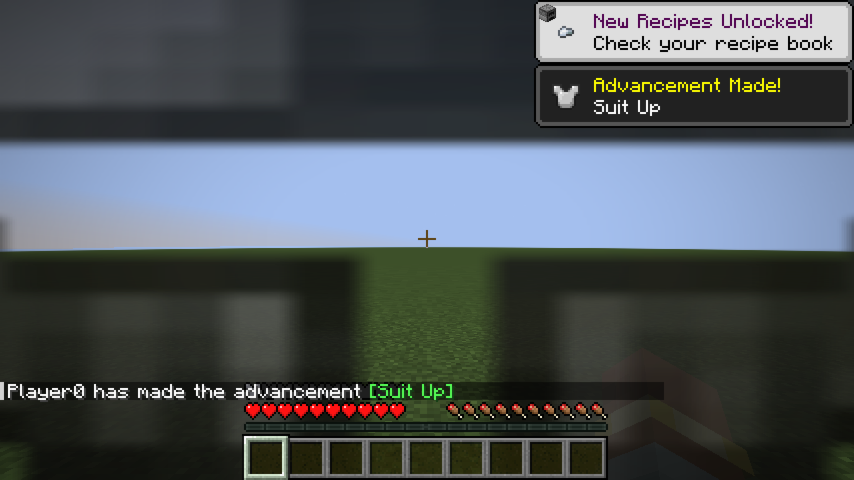
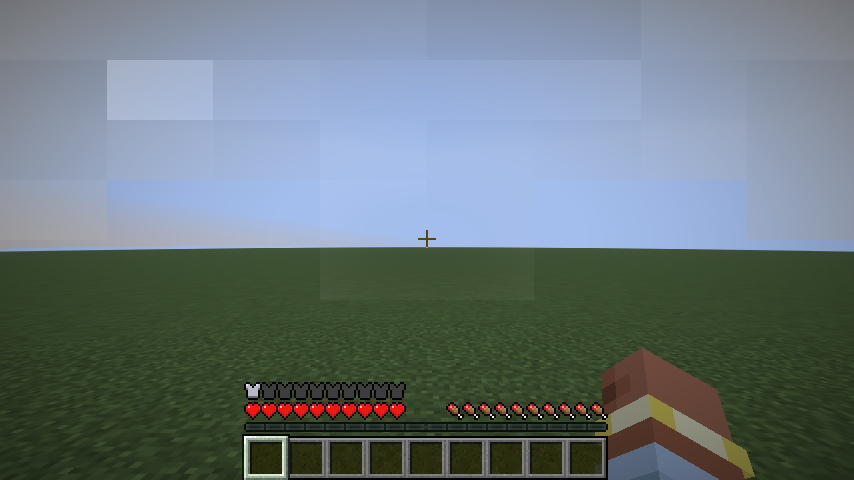
✨ Génère les overlays depuis les textures vanilla + tests pour chaque casque
- Ajoute scripts/generate_overlay.py : extrait la face avant (8×8) de la texture
  d'armure, upscale NEAREST ×64 et applique une vignette radiale (centre
  transparent → bords opaques, alpha max 217)
- Ajoute scripts/regen_all_overlays.sh : extrait automatiquement les textures
  du JAR Minecraft installé et régénère les 6 overlays
- Remplace les overlays génériques (gris #262524 uniforme) par des overlays
  fidèles aux couleurs vanilla (fer gris, diamant cyan, or doré…)
- Étend HelmetOverlayClientGameTest pour tester les 6 types de casque dans
  un seul monde (iron, diamond, golden, netherite, chainmail, leather)
- Désactive announceAdvancements et sendCommandFeedback, vide le chat et les
  toasts avant chaque screenshot pour des templates propres
- Ajoute la propriété testModResourcesPath dans build.gradle pour créer les
  templates manquants automatiquement
- Ajoute les 6 templates de référence GameTest (854×480)

diff --git a/scripts/generate_overlay.py b/scripts/generate_overlay.py
@@ -1,0 +1,166 @@
+#!/usr/bin/env python3
+"""
+Génère des textures overlay de casque à partir de textures d'armure Minecraft.
+
+La face avant du casque dans une texture d'armure (64x32 pour une résolution 16x16)
+se trouve à x=8, y=8 sur une surface de 8x8. Le script calcule automatiquement
+le multiplicateur pour les résolutions supérieures (32x32, 64x64, …).
+
+Usage:
+  python3 scripts/generate_overlay.py <armor_texture.png> [armor_overlay.png] [options]
+
+Exemples:
+  python3 scripts/generate_overlay.py iron_layer_1.png -o iron_helmet_overlay.png
+  python3 scripts/generate_overlay.py leather_layer_1.png leather_layer_2.png -o leather_helmet_overlay.png
+  python3 scripts/generate_overlay.py diamond_layer_1.png --size 1024 -o diamond_helmet_overlay.png
+
+Dépendances:
+  pip install pillow numpy
+"""
+
+import sys
+import argparse
+from typing import Optional
+import numpy as np
+from PIL import Image, ImageFilter
+from pathlib import Path
+
+# ── Dimensions de référence de la texture d'armure Minecraft (résolution 16) ──
+BASE_ARMOR_WIDTH  = 64
+BASE_ARMOR_HEIGHT = 32
+FACE_OFFSET_X = 8   # Position en x de la face avant dans la texture
+FACE_OFFSET_Y = 8   # Position en y de la face avant dans la texture
+FACE_SIZE     = 8   # Taille de la face (carré 8×8 en résolution 16)
+
+# ── Paramètres d'overlay (calqués sur l'analyse des overlays existants du mod) ──
+DEFAULT_OUTPUT_SIZE = 512
+MAX_ALPHA        = 217   # ~85 % d'opacité max — identique aux overlays existants
+BLUR_RADIUS_PCT  = 0.0   # 0 = pas de flou, pixels nets (mettre ex. 0.004 pour adoucir légèrement)
+VIGNETTE_POWER   = 1.8   # Exposant du dégradé radial (plus élevé = bords plus marqués)
+
+
+def _load_face(path: str, face_x: int, face_y: int, face_size: int) -> Image.Image:
+    img = Image.open(path).convert("RGBA")
+    return img.crop((face_x, face_y, face_x + face_size, face_y + face_size))
+
+
+def generate_overlay(
+    armor_path: str,
+    armor_overlay_path: Optional[str] = None,
+    output_path: str = "overlay.png",
+    output_size: int = DEFAULT_OUTPUT_SIZE,
+) -> None:
+    armor = Image.open(armor_path).convert("RGBA")
+    w, h = armor.size
+
+    # Calcul du multiplicateur de résolution
+    if w % BASE_ARMOR_WIDTH != 0:
+        print(
+            f"Erreur : la largeur {w} n'est pas un multiple de {BASE_ARMOR_WIDTH}.",
+            file=sys.stderr,
+        )
+        sys.exit(1)
+
+    mult = w // BASE_ARMOR_WIDTH
+    expected_h = BASE_ARMOR_HEIGHT * mult
+
+    if h != expected_h:
+        print(
+            f"Avertissement : hauteur {h} inattendue (attendu {expected_h} "
+            f"pour un multiplicateur ×{mult}). Poursuite quand même.",
+            file=sys.stderr,
+        )
+
+    face_x    = FACE_OFFSET_X * mult
+    face_y    = FACE_OFFSET_Y * mult
+    face_size = FACE_SIZE * mult
+
+    print(
+        f"Résolution détectée : ×{mult} — "
+        f"face avant à ({face_x}, {face_y}), taille {face_size}×{face_size}"
+    )
+
+    face = _load_face(armor_path, face_x, face_y, face_size)
+
+    # Composition avec la texture overlay de l'armure si fournie
+    if armor_overlay_path:
+        face_overlay = _load_face(armor_overlay_path, face_x, face_y, face_size)
+        face = Image.alpha_composite(face, face_overlay)
+
+    # ── Mise à l'échelle NEAREST — pixels nets, style pixel art ──
+    result = face.resize((output_size, output_size), Image.NEAREST)
+
+    # ── Flou gaussien optionnel (désactivé par défaut) ──
+    blur_radius = int(output_size * BLUR_RADIUS_PCT)
+    if blur_radius > 0:
+        result = result.filter(ImageFilter.GaussianBlur(radius=blur_radius))
+
+    # ── Vignette radiale : centre transparent → bords opaques ──
+    # Simule l'ouverture de la visière du casque
+    y_idx, x_idx = np.mgrid[0:output_size, 0:output_size]
+    cx, cy = output_size / 2.0, output_size / 2.0
+    dist = np.sqrt((x_idx - cx) ** 2 + (y_idx - cy) ** 2)
+    max_dist = np.sqrt(cx ** 2 + cy ** 2)
+    vignette = np.clip(dist / max_dist, 0.0, 1.0) ** VIGNETTE_POWER
+
+    # ── Plafond d'opacité + vignette ──
+    arr = np.array(result, dtype=np.float32)
+    arr[:, :, 3] = np.minimum(arr[:, :, 3] * vignette, MAX_ALPHA)
+    arr = arr.astype(np.uint8)
+
+    out = Image.fromarray(arr)
+    out.save(output_path, "PNG")
+
+    # Statistiques pour validation
+    alpha = arr[:, :, 3]
+    nonzero = alpha[alpha > 0]
+    coverage = 100 * len(nonzero) / (output_size ** 2)
+    print(
+        f"Overlay généré : {output_path}\n"
+        f"  Taille        : {output_size}×{output_size}\n"
+        f"  Flou          : {blur_radius}px\n"
+        f"  Alpha max     : {MAX_ALPHA} (~{MAX_ALPHA/255*100:.0f} %)\n"
+        f"  Alpha moyen   : {nonzero.mean():.0f}\n"
+        f"  Couverture    : {coverage:.1f} % des pixels non transparents"
+    )
+
+
+def main() -> None:
+    parser = argparse.ArgumentParser(
+        description="Génère un overlay de casque à partir d'une texture d'armure Minecraft",
+        formatter_class=argparse.RawDescriptionHelpFormatter,
+        epilog=__doc__,
+    )
+    parser.add_argument("armor", help="Texture d'armure principale (ex: iron_layer_1.png)")
+    parser.add_argument(
+        "armor_overlay",
+        nargs="?",
+        help="Texture overlay de l'armure, optionnelle (ex: leather_layer_2.png)",
+    )
+    parser.add_argument(
+        "-o", "--output",
+        default="overlay.png",
+        help="Fichier PNG de sortie (défaut: overlay.png)",
+    )
+    parser.add_argument(
+        "-s", "--size",
+        type=int,
+        default=DEFAULT_OUTPUT_SIZE,
+        help=f"Taille de l'overlay en pixels (défaut: {DEFAULT_OUTPUT_SIZE})",
+    )
+
+    args = parser.parse_args()
+
+    if not Path(args.armor).exists():
+        print(f"Erreur : fichier introuvable : {args.armor}", file=sys.stderr)
+        sys.exit(1)
+
+    if args.armor_overlay and not Path(args.armor_overlay).exists():
+        print(f"Erreur : fichier overlay introuvable : {args.armor_overlay}", file=sys.stderr)
+        sys.exit(1)
+
+    generate_overlay(args.armor, args.armor_overlay, args.output, args.size)
+
+
+if __name__ == "__main__":
+    main()

diff --git a/src/gametest/java/net/minecraftfr/helmetoverlay/gametest/HelmetOverlayClientGameTest.java b/src/gametest/java/net/minecraftfr/helmetoverlay/gametest/HelmetOverlayClientGameTest.java
@@ -8,8 +8,17 @@ import net.minecraft.client.Minecraft;
 
 @SuppressWarnings("UnstableApiUsage")
 public class HelmetOverlayClientGameTest implements FabricClientGameTest {
-	private static final int VIEWPORT_WIDTH = 854;
+	private static final int VIEWPORT_WIDTH  = 854;
 	private static final int VIEWPORT_HEIGHT = 480;
+
+	private static final String[][] HELMETS = {
+		{"iron_helmet",      "iron_helmet_overlay"},
+		{"diamond_helmet",   "diamond_helmet_overlay"},
+		{"golden_helmet",    "golden_helmet_overlay"},
+		{"netherite_helmet", "netherite_helmet_overlay"},
+		{"chainmail_helmet", "chainmail_helmet_overlay"},
+		{"leather_helmet",   "leather_helmet_overlay"},
+	};
 
 	@Override
 	public void runTest(ClientGameTestContext context) {
@@ -19,16 +28,29 @@ public class HelmetOverlayClientGameTest implements FabricClientGameTest {
 			sp.getClientLevel().waitForChunksDownload();
 			sp.getClientLevel().waitForChunksRender();
 
-			sp.getServer().runCommand("item replace entity @p armor.head with minecraft:iron_helmet");
+			sp.getServer().runCommand("gamerule announceAdvancements false");
+			sp.getServer().runCommand("gamerule sendCommandFeedback false");
 
-			context.runOnClient((Minecraft client) -> {
-				client.options.setCameraType(CameraType.FIRST_PERSON);
-			});
+			context.runOnClient((Minecraft client) ->
+				client.options.setCameraType(CameraType.FIRST_PERSON)
+			);
 
-			context.waitTicks(20);
-			sp.getClientLevel().waitForChunksRender();
+			for (String[] helmet : HELMETS) {
+				String item     = helmet[0];
+				String template = helmet[1];
 
-			context.assertScreenshotEquals("iron_helmet_overlay");
+				sp.getServer().runCommand("item replace entity @p armor.head with minecraft:" + item);
+				context.waitTicks(20);
+				sp.getClientLevel().waitForChunksRender();
+
+				context.runOnClient((Minecraft client) -> {
+					client.gui.hud.getChat().clearMessages(false);
+					client.gui.toastManager().clear();
+				});
+				context.waitTicks(2);
+
+				context.assertScreenshotEquals(template);
+			}
 		}
 	}
 }
